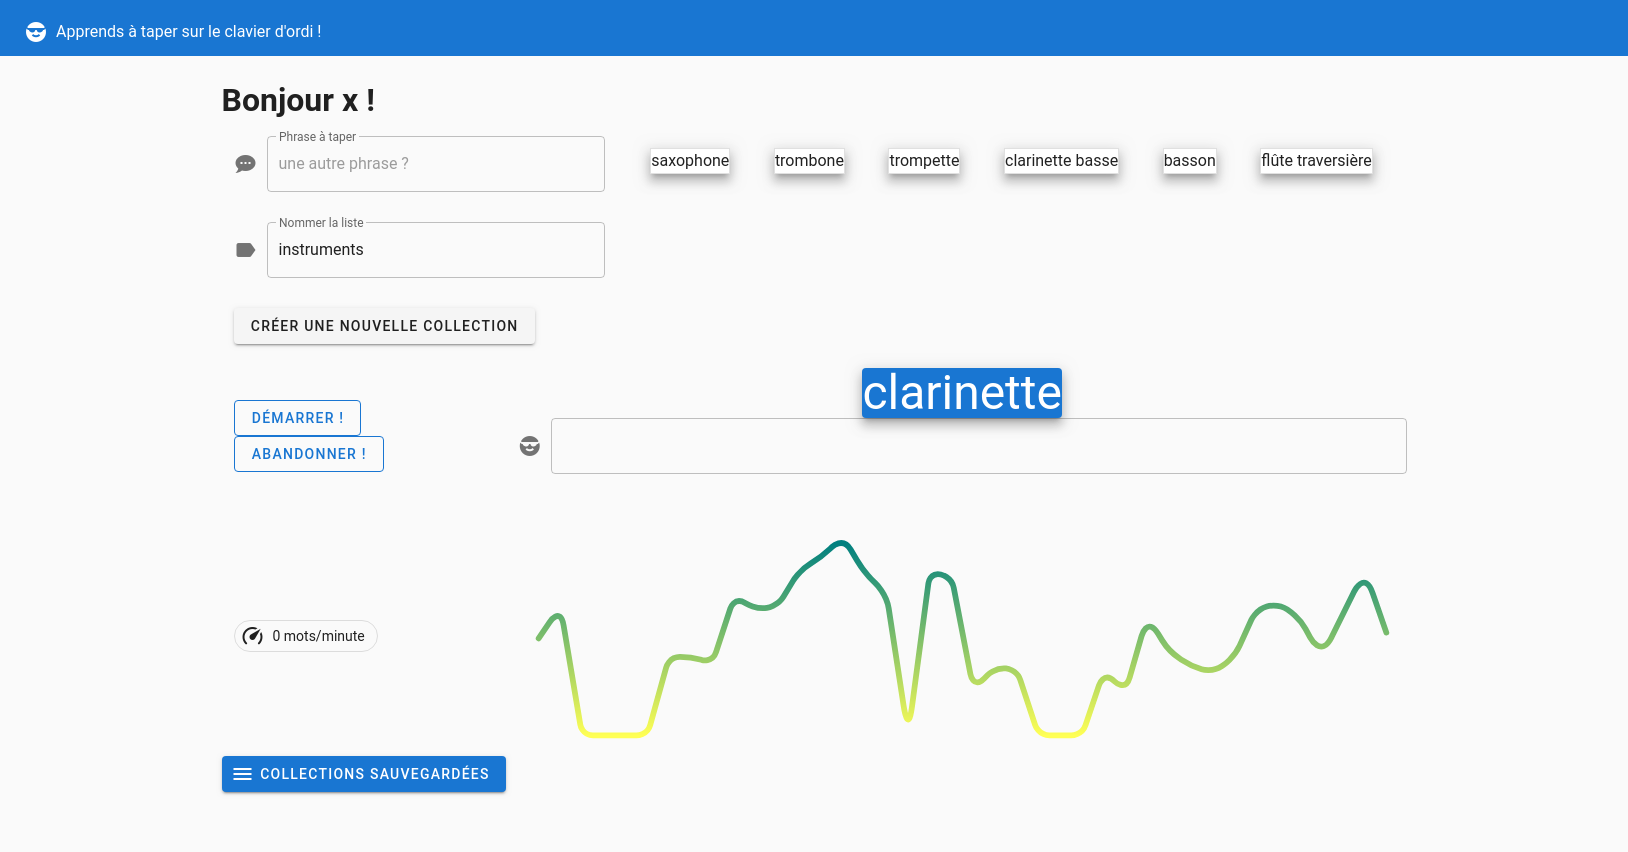
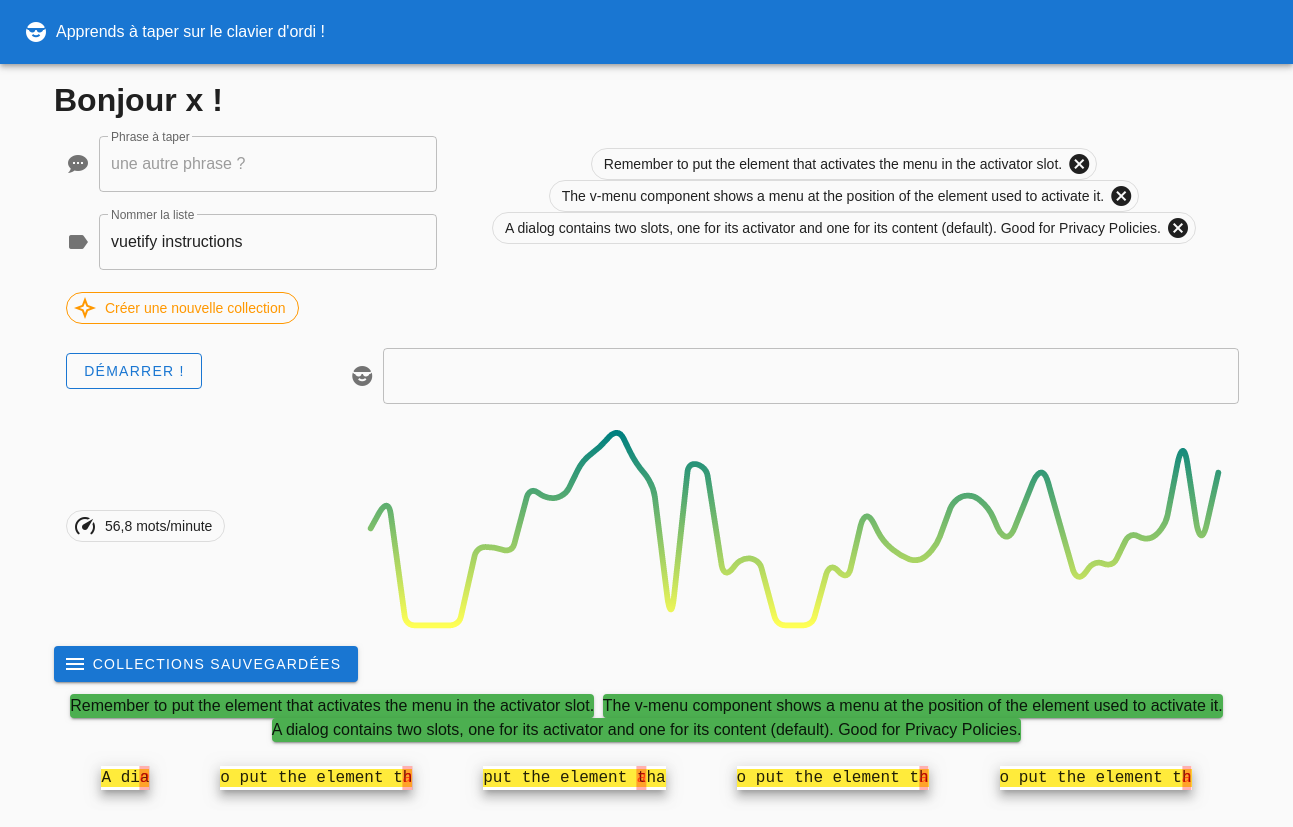
update

diff --git a/src/components/Typing.vue b/src/components/Typing.vue
@@ -52,51 +52,74 @@
                   <v-icon dark>mdi-keyboard-return</v-icon>(entrer) !
                 </span>
               </v-tooltip>
-              <v-btn
+              <v-chip
+                v-if="phrasesToDisplay.length"
+                outlined
+                color="orange"
                 @click="
                   phrases = [];
                   listName = '';
                   adding = '';
                 "
-              >Créer une nouvelle collection</v-btn>
+                ><v-icon left>mdi-star-four-points-outline</v-icon>Créer une
+                nouvelle collection</v-chip
+              >
             </v-col>
             <v-col cols="8">
               <v-container>
                 <v-row justify="end">
                   <v-chip
                     outlined
-                    close
+                    :close="!game.running()"
                     class="phrase mx-auto"
                     max-width="350"
                     tile
                     raised
                     v-for="(phrase, idx) in phrasesToDisplay"
                     :key="idx + phrase"
-                    @click:close="pullPhrase(phrase);"
-                  >{{ phrase }}</v-chip>
+                    @click:close="pullPhrase(phrase)"
+                    >{{ phrase }}</v-chip
+                  >
                 </v-row>
               </v-container>
             </v-col>
           </v-row>
         </section>
         <section>
-          <v-row align="center">
-            <v-col cols="3">
-              <v-btn outlined @click="newGame" color="primary">démarrer !</v-btn>
-              <v-btn outlined @click="game.reset();currentPhrase='';" color="primary">abandonner !</v-btn>
+          <v-row align="center" justify="start">
+            <v-col cols="3" ro>
+              <v-btn
+                v-if="!game.running()"
+                outlined
+                @click="newGame"
+                color="primary"
+                >démarrer !</v-btn
+              >
+              <v-btn
+                v-if="game.running()"
+                outlined
+                @click="
+                  game.reset();
+                  currentPhrase = '';
+                "
+                color="primary"
+                >abandonner !</v-btn
+              >
             </v-col>
-            <v-col cols="9">
+            <v-col cols="9" align-self="center">
               <v-row v-if="currentPhrase.length" justify="center">
                 <v-card
                   filled
                   color="primary"
-                  class="phrase display-1 mx-1 px-3"
+                  class="phrase title mx-1 px-3"
                   raised
                   dark
-                >{{ currentPhrase }}</v-card>
+                  >{{ currentPhrase }}</v-card
+                >
               </v-row>
               <v-row>
                 <v-text-field
+                  class="mb-n8"
                   :prepend-icon="currentStatus"
                   outlined
                   v-model="game.typed"
@@ -113,9 +136,9 @@
               <v-chip outlined>
                 <v-icon left>mdi-speedometer</v-icon>
                 {{
-                new Intl.NumberFormat("fr-FR", {
-                maximumFractionDigits: 2
-                }).format(game.average)
+                  new Intl.NumberFormat("fr-FR", {
+                    maximumFractionDigits: 2
+                  }).format(game.average)
                 }}
                 mots/minute
               </v-chip>
@@ -148,7 +171,11 @@
               </v-btn>
             </template>
             <v-list>
-              <v-list-item v-for="(item, index) in phraseList" :key="index" @click="load(item)">
+              <v-list-item
+                v-for="(item, index) in phraseList"
+                :key="index"
+                @click="load(item)"
+              >
                 <v-list-item-title>
                   <v-icon left>mdi-import</v-icon>
                   {{ item.name }}
@@ -176,14 +203,24 @@
         <div class="ok-words">
           <v-container>
             <v-row justify="space-around">
-              <v-card color="success" v-for="(p, i) in game.finished" :key="i + p">{{ p }}</v-card>
+              <v-card
+                color="success"
+                v-for="(p, i) in game.finished"
+                :key="i + p"
+                >{{ p }}</v-card
+              >
             </v-row>
           </v-container>
         </div>
         <div class="ko-words">
           <v-container>
             <v-row justify="space-around">
-              <v-card tile raised v-for="(p, i) in reverseFailures" :key="i + p">
+              <v-card
+                tile
+                raised
+                v-for="(p, i) in reverseFailures"
+                :key="i + p"
+              >
                 <span
                   v-for="(part, i) in diff.diffChars(
                     p[0].substring(0, p[1].length).slice(-20),
@@ -191,7 +228,8 @@
                   )"
                   :key="i"
                   :class="part.added || part.deleted ? 'red bad' : 'yellow'"
-                >{{ part.value }}</span>
+                  >{{ part.value }}</span
+                >
               </v-card>
             </v-row>
           </v-container>
